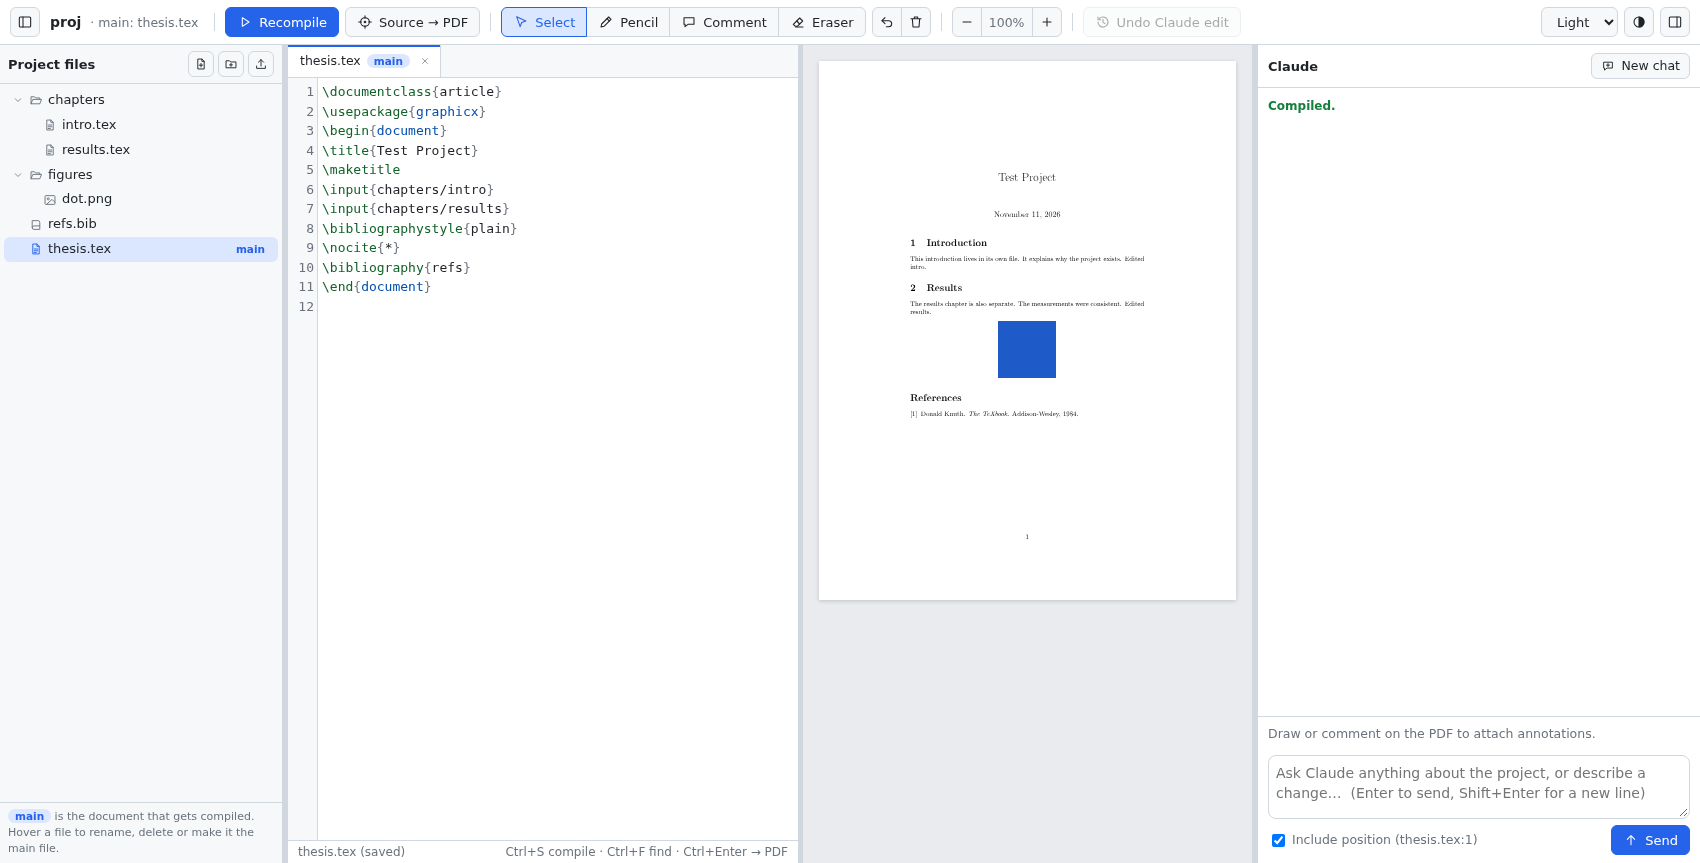
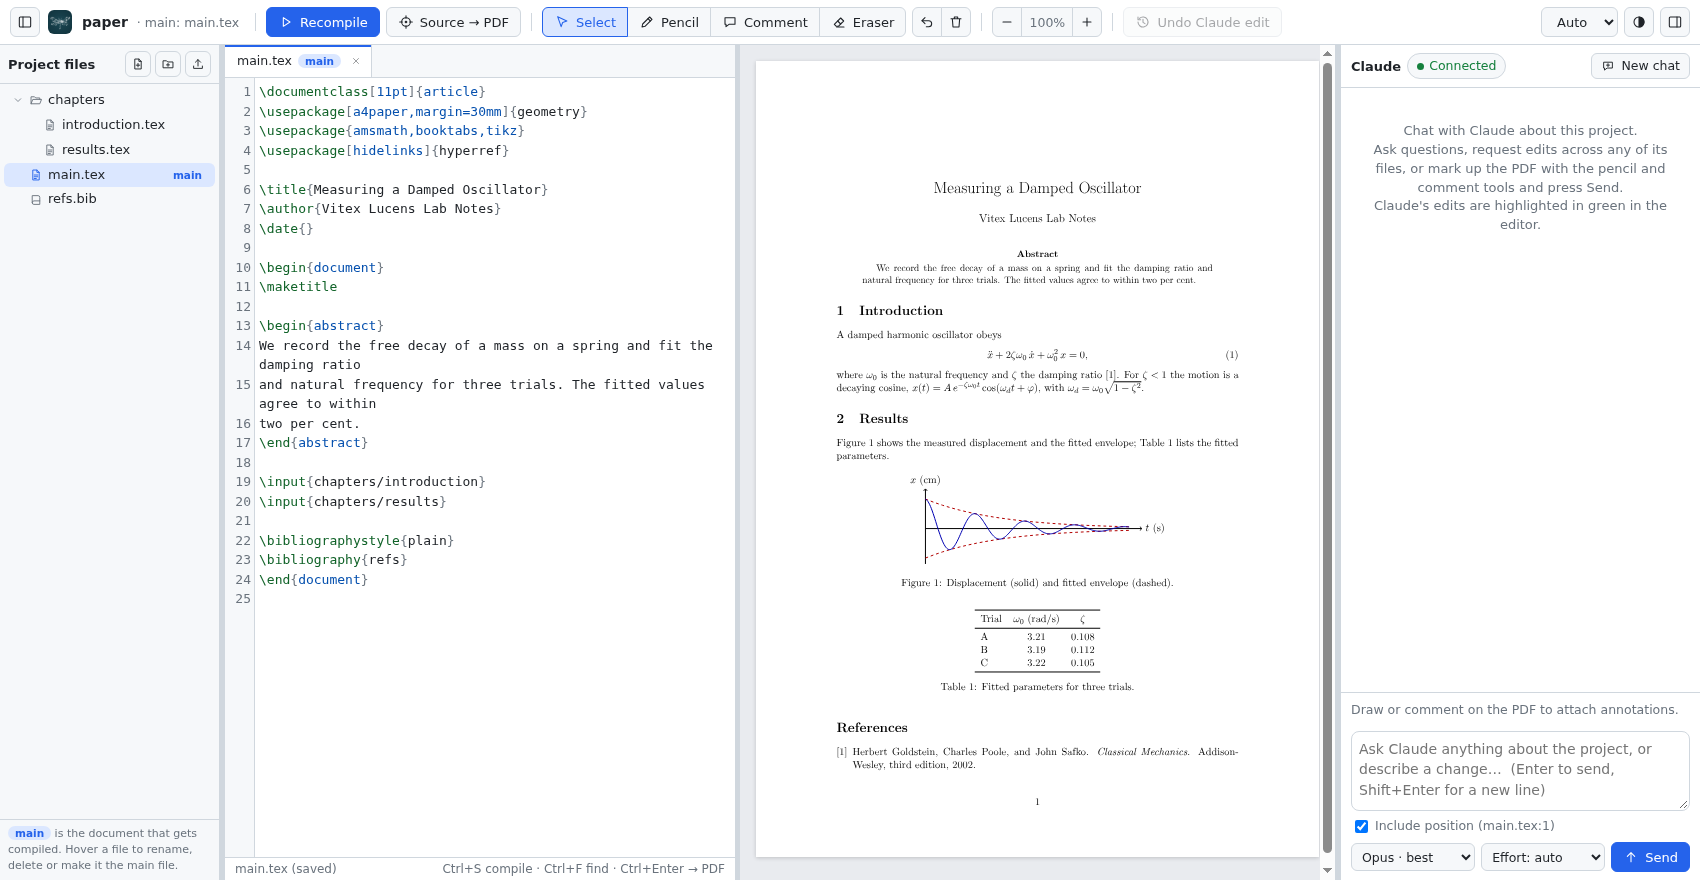
Refresh README screenshot; taller chat box; SECURITY.md: tested TeX versions
The screenshot now shows the logo, the Claude connection chip and the model
and effort pickers. The chat box fits its three-line placeholder. SECURITY.md
records what CI found: TeX Live 2026 and MiKTeX 26 let documents read files
outside the project (plain pdflatex too), and every tested TeX blocks writing
outside it.

diff --git a/latex_copilot/static/index.html b/latex_copilot/static/index.html
@@ -229,7 +229,7 @@
   #commentList { list-style: none; margin: 0; padding: 0; max-height: 96px; overflow: auto; font-size: 12.5px; }
   #commentList li { padding: 2px 0; cursor: pointer; display: flex; gap: 6px; }
   #commentList li b { color: var(--accent); }
-  #msg { width: 100%; min-height: 64px; max-height: 220px; resize: vertical; font: inherit; padding: 7px; border: 1px solid var(--line); border-radius: 8px; background: var(--panel); color: var(--ink); }
+  #msg { width: 100%; min-height: 80px; max-height: 220px; resize: vertical; font: inherit; padding: 7px; border: 1px solid var(--line); border-radius: 8px; background: var(--panel); color: var(--ink); }
   #msg:focus { outline: 2px solid var(--accent); outline-offset: -1px; }
   #composeRow { display: flex; gap: 8px; align-items: center; font-size: 12.5px; color: var(--muted); }
   #composeRow label { display: flex; gap: 4px; align-items: center; cursor: pointer; overflow: hidden; }

diff --git a/SECURITY.md b/SECURITY.md
@@ -12,7 +12,8 @@ Latex-Copilot is a local app: a small web server on your own computer, shown in 
 |---|---|
 | Other programs, other users on the computer, or websites using the local server | It listens only on `127.0.0.1`. Every request needs this user's access key, which the app puts in the link it opens and the browser then keeps in a `SameSite=Strict`, `HttpOnly` cookie. The key file (`~/.cache/latex-copilot/access-key`) is readable only by you. Requests from other websites are refused (Host and Origin checks; state changes need a JSON body, which browsers can't send cross-site without permission). |
 | A project's `latexmkrc` (a Perl program) running on compile | Ignored, unless you start the app with `--latexmkrc` for a project you trust. |
-| A document reading other files on the computer into the PDF | Partly. With TeX Live the app sets `openin_any=p` (and `openout_any=p`), which older TeX Live (tested: 2021–2022) enforces, so a document can only read files in its project and in TeX itself. **TeX Live 2026 (tested on macOS) and MiKTeX don't enforce it**, so there a document can still `\input` other files it can name. Writing outside the project stays blocked, and shell escape stays at TeX's restricted default. Only compile documents you trust, and look at a PDF before sharing it. |
+| A document reading other files on the computer into the PDF | Partly. With TeX Live the app sets `openin_any=p`, which older TeX Live enforces (tested: 2022), so a document can only read files in its project and in TeX itself. **TeX Live 2026 and MiKTeX 26 don't** (tested, also with plain `pdflatex`): there a document can `\input` any file it can name. Only compile documents you trust, and look at a PDF before sharing it. |
+| A document writing files elsewhere on the computer | Blocked by TeX (tested: TeX Live 2022 and 2026, MiKTeX 26). Shell escape stays at TeX's restricted default. |
 | A malicious PDF running code in the app | PDF.js never evaluates code from PDFs (`isEvalSupported: false`, the fix for CVE-2024-4367). |
 | HTML or scripts in a project running in the app | Served as plain text; SVG images can't run scripts. |
 | Instructions hidden in a document (prompt injection) | Claude Code gets only file tools (Read, Edit, Write, Glob, Grep), confined to the project folder: no commands, no web access, no plugins or MCP servers. Every edit is highlighted and can be undone. |
